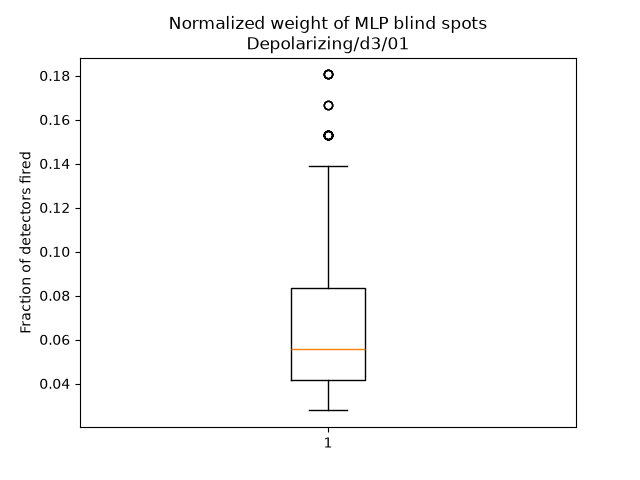
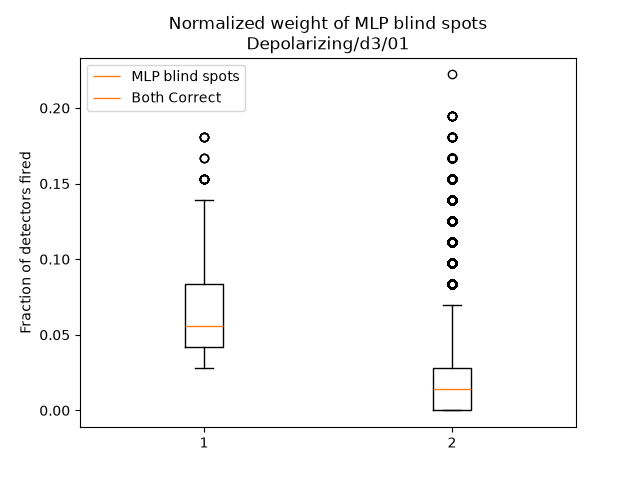
carac end

diff --git a/analysis/syndrome_features.py b/analysis/syndrome_features.py
@@ -6,6 +6,12 @@ from typing import Dict
 import itertools
 from tqdm import tqdm 
 import numpy as np
+import sys, os
+import stim
+sys.path.append(os.path.join(os.path.dirname(__file__), "..", "data"))
+
+from generate_datasets import create_circuit
+
 """
 This code will produce statistics from a .json file written by disagreement_map.py.
 More specifically, it will for every disagreement map found in the json file 
@@ -17,11 +23,25 @@ it will compute the statistics (boxplots) for every of the following features :
 
 - Boundary proximity — closeness to the physical border of the decoder(TODO)
 
+
+It will compare all the previous statistics of the syndromes to the "both correct" categories that will allow to see 
+what are the differences between the blind syndromes of the model and what the model can correctly solve.
 """
 
 NOISE_MODELS = ["Depolarizing", "FT"]
 DISTANCES = [3, 5, 7]
 PARAMS = ["005", "01"]
+# final_models/ folder name -> noise_type expected by generate_datasets.create_circuit
+NOISE_FOLDER_TO_TYPE = {
+    "Depolarizing": "depolarizing",
+    "FT": "circuit-level",
+}
+
+# final_models/.../<param folder> -> actual physical error rate
+PARAM_FOLDER_TO_VALUE = {
+    "005": 0.005,
+    "01": 0.01,
+}
 
 
 def read_h5_table(file_path:str, group_path:str) ->Dict :
@@ -71,28 +91,203 @@ def read_h5_table(file_path:str, group_path:str) ->Dict :
 
 
 
-def compute_boxplot_Weight(syndromes:List, output_files_path:str, group_path:str)->None:
-    weights = syndromes.sum(axis=1)/len(syndromes[0])
+def compute_boxplot_Weight(syndromes_mlp_blindpsots:List, syndromes_both_correct:List, output_files_path:str, group_path:str)->None:
+    weights_blindpsot = syndromes_mlp_blindpsots.sum(axis=1)/len(syndromes_mlp_blindpsots[0])
+    weights_both_correct = syndromes_both_correct.sum(axis=1)/len(syndromes_both_correct[0])
     fig, ax = plt.subplots()
-    ax.boxplot(weights)
+    ax.boxplot(
+        [weights_blindpsot, weights_both_correct],
+        label=["MLP blind spots", "Both Correct"]
+    )
+    ax.legend()
+    ax.set_title(
+        r"Boxplot: Normalized weight of $\mathcal{P}_{blind}$ spots and $\mathcal{P}_{both}$"
+        f"\n{group_path}"
+    )    
     ax.set_title(f"Normalized weight of MLP blind spots\n{group_path}")
     ax.set_ylabel("Fraction of detectors fired")
-    fig.savefig(f"{output_files_path}/{group_path.replace('/', '_')}_WeightBoxplot.png")
+    os.makedirs(f"{output_files_path}/Weight", exist_ok=True)
+    fig.savefig(f"{output_files_path}/Weight/{group_path.replace('/', '_')}_WeightBoxplot.png")
     plt.close(fig)
+
+
+def compute_spartial_spread_heatmap(syndromes_mlp_blindpsots:List, syndromes_both_correct:List, output_files_path:str, group_path:str, coord:Dict)->None:
+    #only showing the ones that fired :
+    space_coord_mlp_blindspot_fired = []
+    space_coord_both_correct_fired = []
+
+    for i in range(len(syndromes_mlp_blindpsots)):
+        space_coord_mlp_blindspot_fired.append([coord[j][0:2] for j in range(len(syndromes_mlp_blindpsots[i])) if syndromes_mlp_blindpsots[i][j] == 1])
+        space_coord_both_correct_fired.append([coord[j][0:2] for j in range(len(syndromes_both_correct[i])) if syndromes_both_correct[i][j] == 1])
+
+    ## will keep indx if needed and build info for heatmap sepparatly
+    # for now we have [[x1,y1],...]
+    #+1 cuz 0 indexed so we need idx+1 elements in the grid
+    width = max(xy[0] for xy in coord.values()) + 1
+    lenght = max(xy[1] for xy in coord.values()) + 1
+
+    def build_grid(space_coord_fired, n_samples):
+        grid = np.zeros((int(lenght), int(width)))
+        for fired in space_coord_fired:
+            for x, y in fired:
+                grid[int(y), int(x)] += 1
+        return grid / n_samples
+
+    grid_blindspot = build_grid(space_coord_mlp_blindspot_fired, len(syndromes_mlp_blindpsots))
+    grid_both_correct = build_grid(space_coord_both_correct_fired, len(syndromes_both_correct))
+
+    # do the heatmaps
+    fig, axes = plt.subplots(1, 2, figsize=(10, 5))
+    im0 = axes[0].imshow(grid_blindspot, vmin=0, cmap="RdBu_r", origin="lower")
+    axes[0].set_title(r"$\mathcal{P}_{blind}$ spots")
+    fig.colorbar(im0, ax=axes[0], label="Firing frequency")
+
+    im1 = axes[1].imshow(grid_both_correct, vmin=0, cmap="RdBu_r", origin="lower")
+    axes[1].set_title(r"$\mathcal{P}_{both}$")
+    fig.colorbar(im1, ax=axes[1], label="Firing frequency")
+    fig.suptitle(
+        r"Heatmap: Space Coordinates of $\mathcal{P}_{blind}$ spots and $\mathcal{P}_{both}$"
+        f"\n{group_path}"
+    )
+    os.makedirs(f"{output_files_path}/HeatMap", exist_ok=True)
+    fig.savefig(f"{output_files_path}/HeatMap/{group_path.replace('/', '_')}_SpaceHeatmap.png")
+    plt.close(fig)
+
+
+
+    return None
+
+
+def compute_temporal_histogram(syndromes_mlp_blindpsots:List, syndromes_both_correct:List, output_files_path:str, group_path:str, coord:Dict)->None:
+    #only showing the ones that fired, keeping the round (t) coordinate :
+    n_rounds = int(max(xyt[2] for xyt in coord.values())) + 1
+
+    # how many detectors actually exist at each round 
+    detectors_per_round = np.zeros(n_rounds)
+    for xyt in coord.values():
+        detectors_per_round[int(xyt[2])] += 1
+
+    def firing_by_round(syndromes):
+        counts = np.zeros(n_rounds)
+        for sample in syndromes:
+            for j in range(len(sample)):
+                if sample[j] == 1:
+                    counts[int(coord[j][2])] += 1
+        return counts / len(syndromes) / detectors_per_round
+
+    freq_blindspot = firing_by_round(syndromes_mlp_blindpsots)
+    freq_both_correct = firing_by_round(syndromes_both_correct)
+
+    rounds = np.arange(n_rounds)
+    bar_width = 0.4
+
+    fig, ax = plt.subplots()
+    ax.bar(rounds - bar_width / 2, freq_blindspot, width=bar_width, label=r"$\mathcal{P}_{blind}$ spots", color="tab:red")
+    ax.bar(rounds + bar_width / 2, freq_both_correct, width=bar_width, label=r"$\mathcal{P}_{both}$", color="tab:blue")
+    ax.legend()
+    ax.set_xticks(rounds)
+    ax.set_xlabel("Round")
+    ax.set_ylabel("Fraction of that round's detectors fired")
+    ax.set_title(
+        r"Temporal extent: detectors fired per round for $\mathcal{P}_{blind}$ spots and $\mathcal{P}_{both}$"
+        f"\n{group_path}"
+    )
+
+    os.makedirs(f"{output_files_path}/Temporal", exist_ok=True)
+    fig.savefig(f"{output_files_path}/Temporal/{group_path.replace('/', '_')}_TemporalHistogram.png")
+    plt.close(fig)
+
+    return None
+
+
+def compute_boundary_proximity_boxplot(syndromes_mlp_blindpsots:List, syndromes_both_correct:List, output_files_path:str, group_path:str, coord:Dict)->None:
+    # distance (in the 2D spatial lattice) of every detector to the nearest edge of the grid
+    #+1 cuz 0 indexed so we need idx+1 elements in the grid
+    width = max(xy[0] for xy in coord.values()) + 1
+    lenght = max(xy[1] for xy in coord.values()) + 1
+    boundary_dist = {
+        #minimum distance from one of the border (either distance from left/right/up/down and get smallest)
+        j: min(xy[0], width - 1 - xy[0], xy[1], lenght - 1 - xy[1])
+        for j, xy in coord.items()
+    }
+
+    def min_boundary_dist_per_sample(syndromes):
+        dists = []
+        for sample in syndromes:
+            fired = [boundary_dist[j] for j in range(len(sample)) if sample[j] == 1]
+            # get the min of all minimum distances from all samples
+            dists.append(min(fired) if fired else np.nan)
+        return np.array(dists)
+
+    blindspot_dist = min_boundary_dist_per_sample(syndromes_mlp_blindpsots)
+    both_correct_dist = min_boundary_dist_per_sample(syndromes_both_correct)
+
+    # samples with zero fired detectors have no "closest fired detector" -> drop them
+    blindspot_dist = blindspot_dist[~np.isnan(blindspot_dist)]
+    both_correct_dist = both_correct_dist[~np.isnan(both_correct_dist)]
+
+    fig, ax = plt.subplots()
+    ax.boxplot(
+        [blindspot_dist, both_correct_dist],
+        tick_labels=["MLP blind spots", "Both Correct"]
+    )
+    ax.set_title(
+        r"Boundary proximity: distance to nearest edge of $\mathcal{P}_{blind}$ spots and $\mathcal{P}_{both}$"
+        f"\n{group_path}"
+    )
+    ax.set_ylabel("Distance of closest fired detector to grid boundary")
+
+    os.makedirs(f"{output_files_path}/Boundary", exist_ok=True)
+    fig.savefig(f"{output_files_path}/Boundary/{group_path.replace('/', '_')}_BoundaryBoxplot.png")
+    plt.close(fig)
+
+    return None
+
 
 def parse_args():
     parser = argparse.ArgumentParser(description="Build an MWPM vs MLP disagreement map.")
     parser.add_argument("--input", type=str, required=True)
     parser.add_argument("--output_folder", type=str, required=True)
+    parser.add_argument("--rounds", type=str, default=9)
+
     return parser.parse_args()
 
 
 if __name__ == "__main__":
     args = parse_args()
     all_configs = list(itertools.product(NOISE_MODELS, DISTANCES, PARAMS))
+    coord_cache = {}
     for noise_folder, distance, param_folder in tqdm(all_configs):
         group_path = f"{noise_folder}/d{distance}/{param_folder}"
         tqdm.write(f"Doing config for {group_path}")
 
+
         dictionary = read_h5_table(args.input, group_path)
-        compute_boxplot_Weight(dictionary["mlp_blind_spot"], args.output_folder, group_path)
+        syndromes_mlp_blindpsots = dictionary["mlp_blind_spot"]
+        syndromes_both_correct = dictionary["both_correct"]
+
+        final_output = args.output_folder
+        if final_output[-1] == "/":
+            final_output = final_output[:-1]
+        compute_boxplot_Weight(syndromes_mlp_blindpsots, syndromes_both_correct, final_output, group_path)
+
+        #build circuit
+        noise_type = NOISE_FOLDER_TO_TYPE[noise_folder]
+        noise_param = PARAM_FOLDER_TO_VALUE[param_folder]
+
+        # detector coordinates only depend on (noise_folder, distance, rounds), not on the error rate,
+        # so we cache them across the two PARAMS values to avoid re-decomposing the error model.
+        cache_key = (noise_folder, distance)
+        if cache_key in coord_cache:
+            coord = coord_cache[cache_key]
+        else:
+            circuit = create_circuit(distance=distance, rounds=args.rounds, noise_type=noise_type, noise_default=noise_param)
+            #recall that dem = detetor error model contains logic for the actual error to syndroms (and thus inverse)
+            dem = circuit.detector_error_model(decompose_errors=True)
+
+            coord = dem.get_detector_coordinates() # dictonary key = every detector (there are (r^2-1)*d detectors,  value = [x,y,t])
+            coord_cache[cache_key] = coord
+
+        compute_spartial_spread_heatmap(syndromes_mlp_blindpsots, syndromes_both_correct, final_output, group_path, coord)
+        compute_temporal_histogram(syndromes_mlp_blindpsots, syndromes_both_correct, final_output, group_path, coord)
+        compute_boundary_proximity_boxplot(syndromes_mlp_blindpsots, syndromes_both_correct, final_output, group_path, coord)
